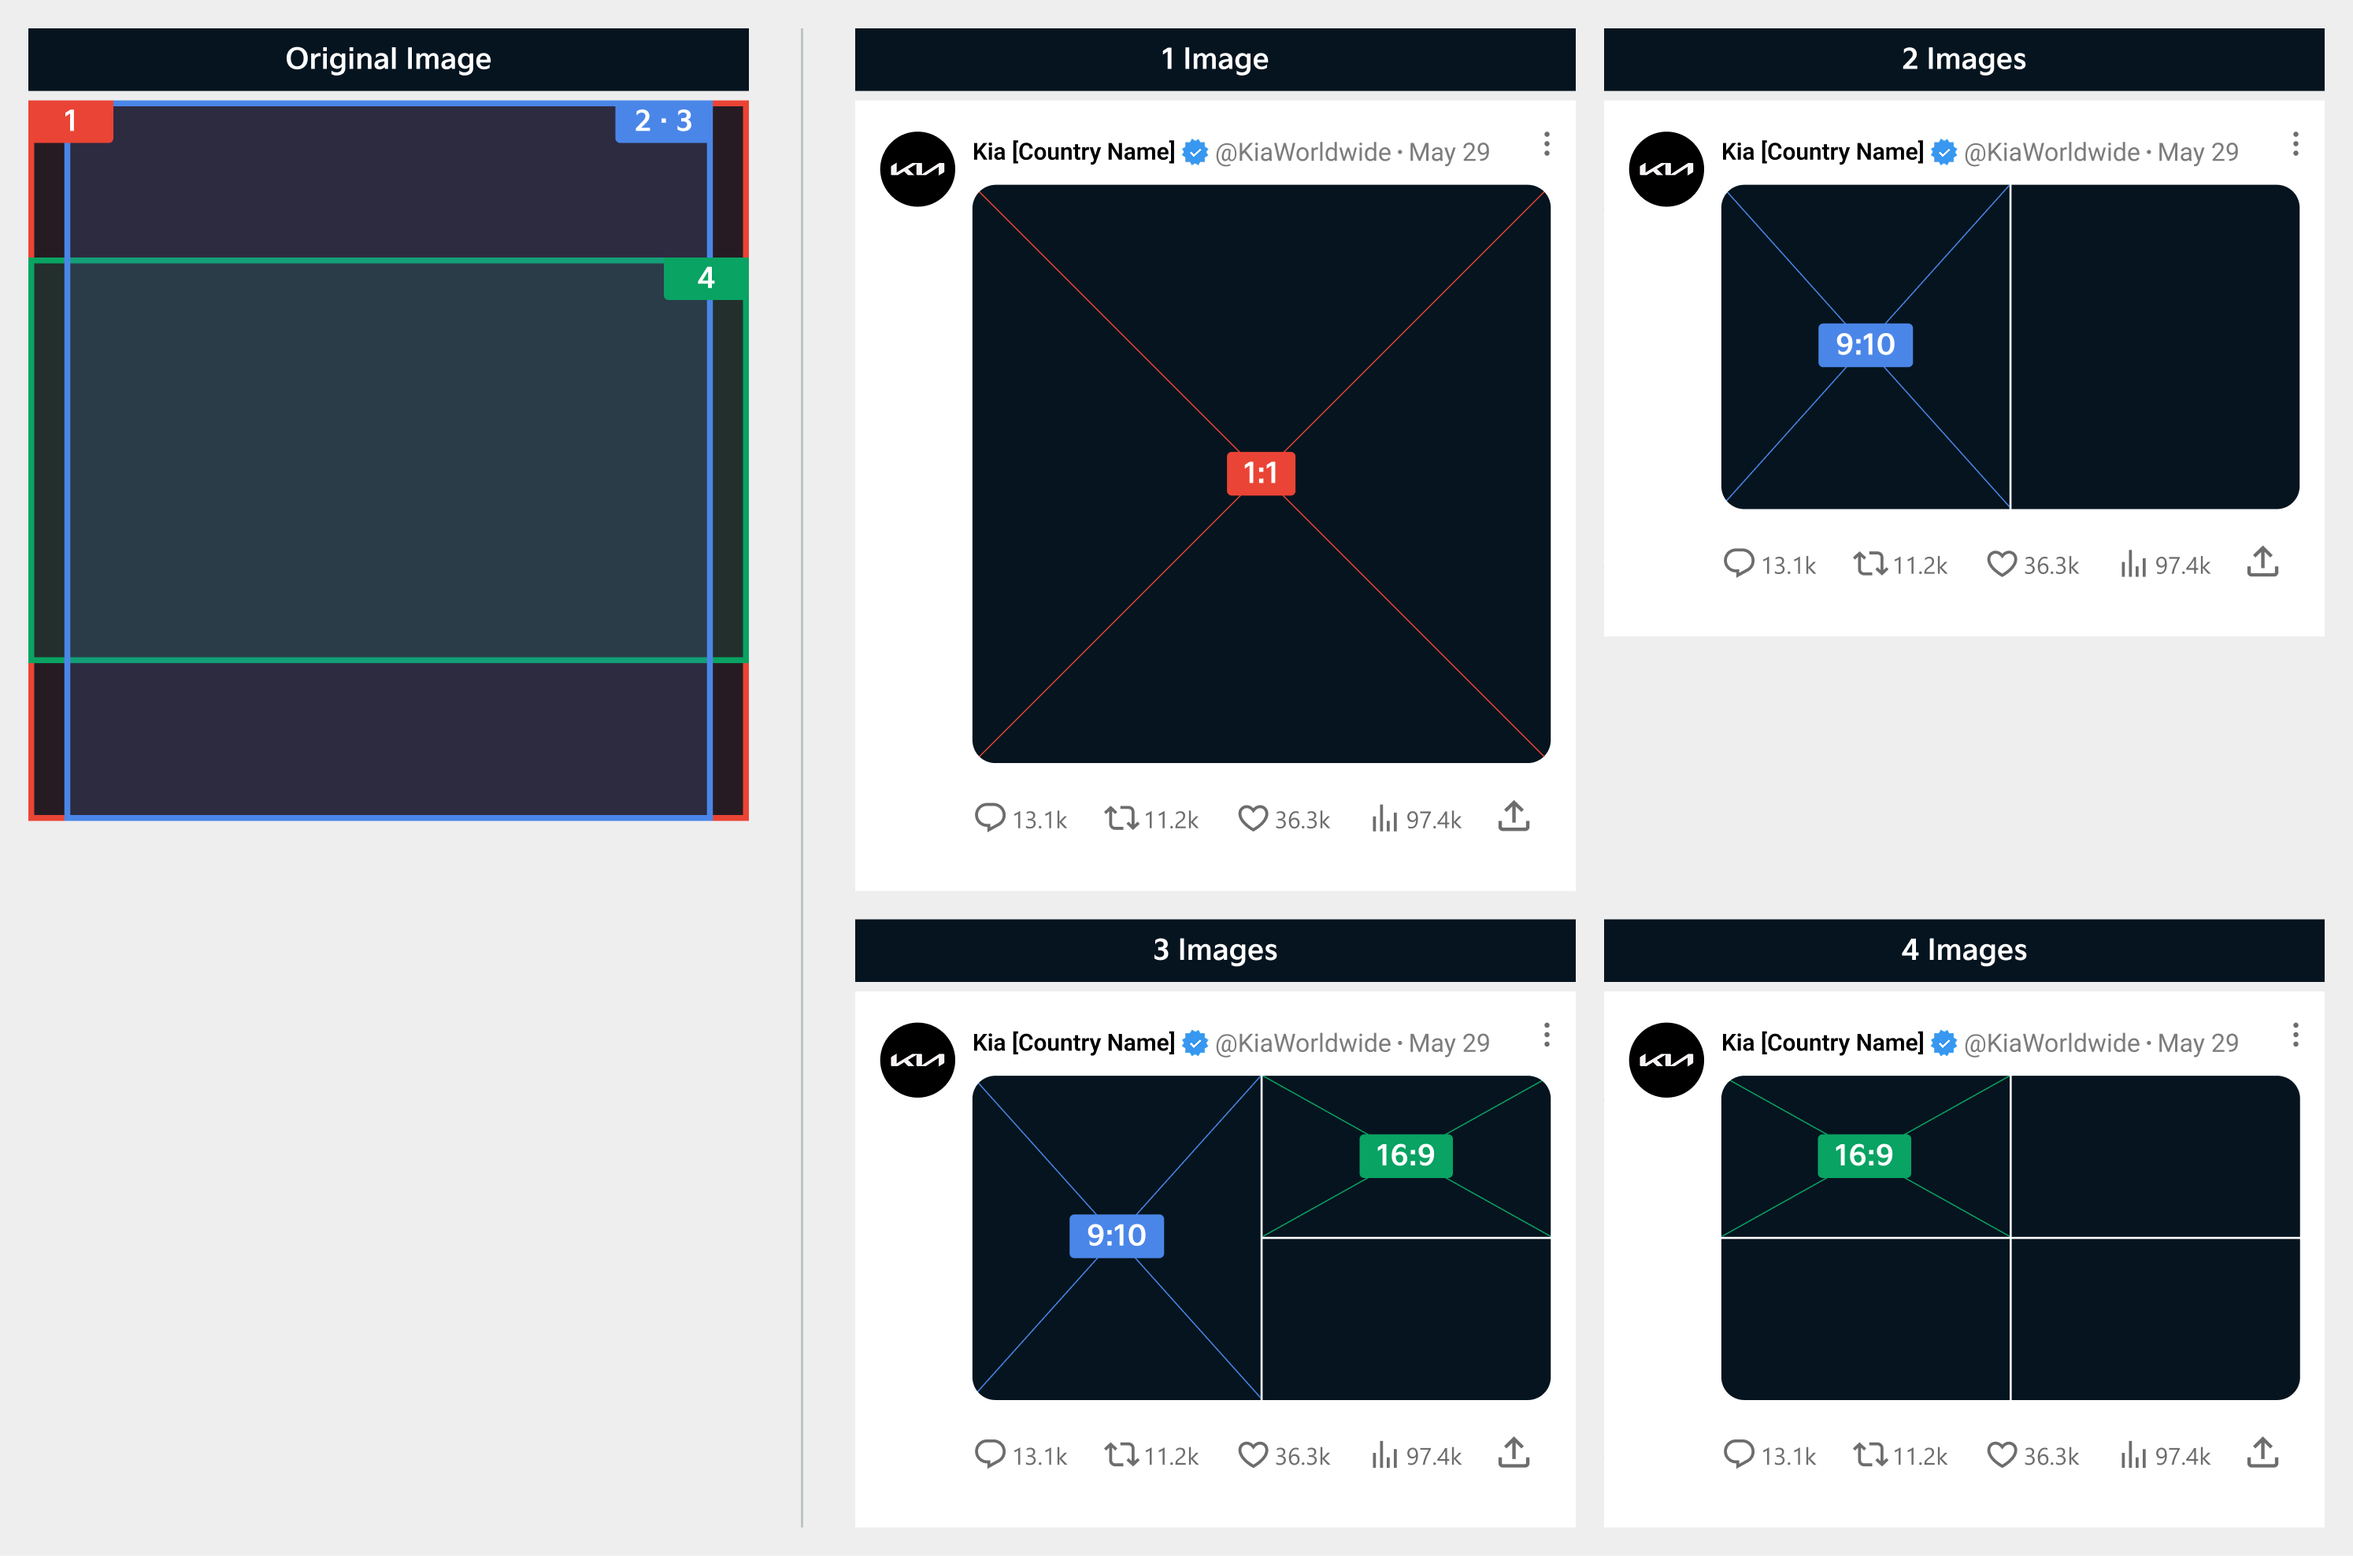
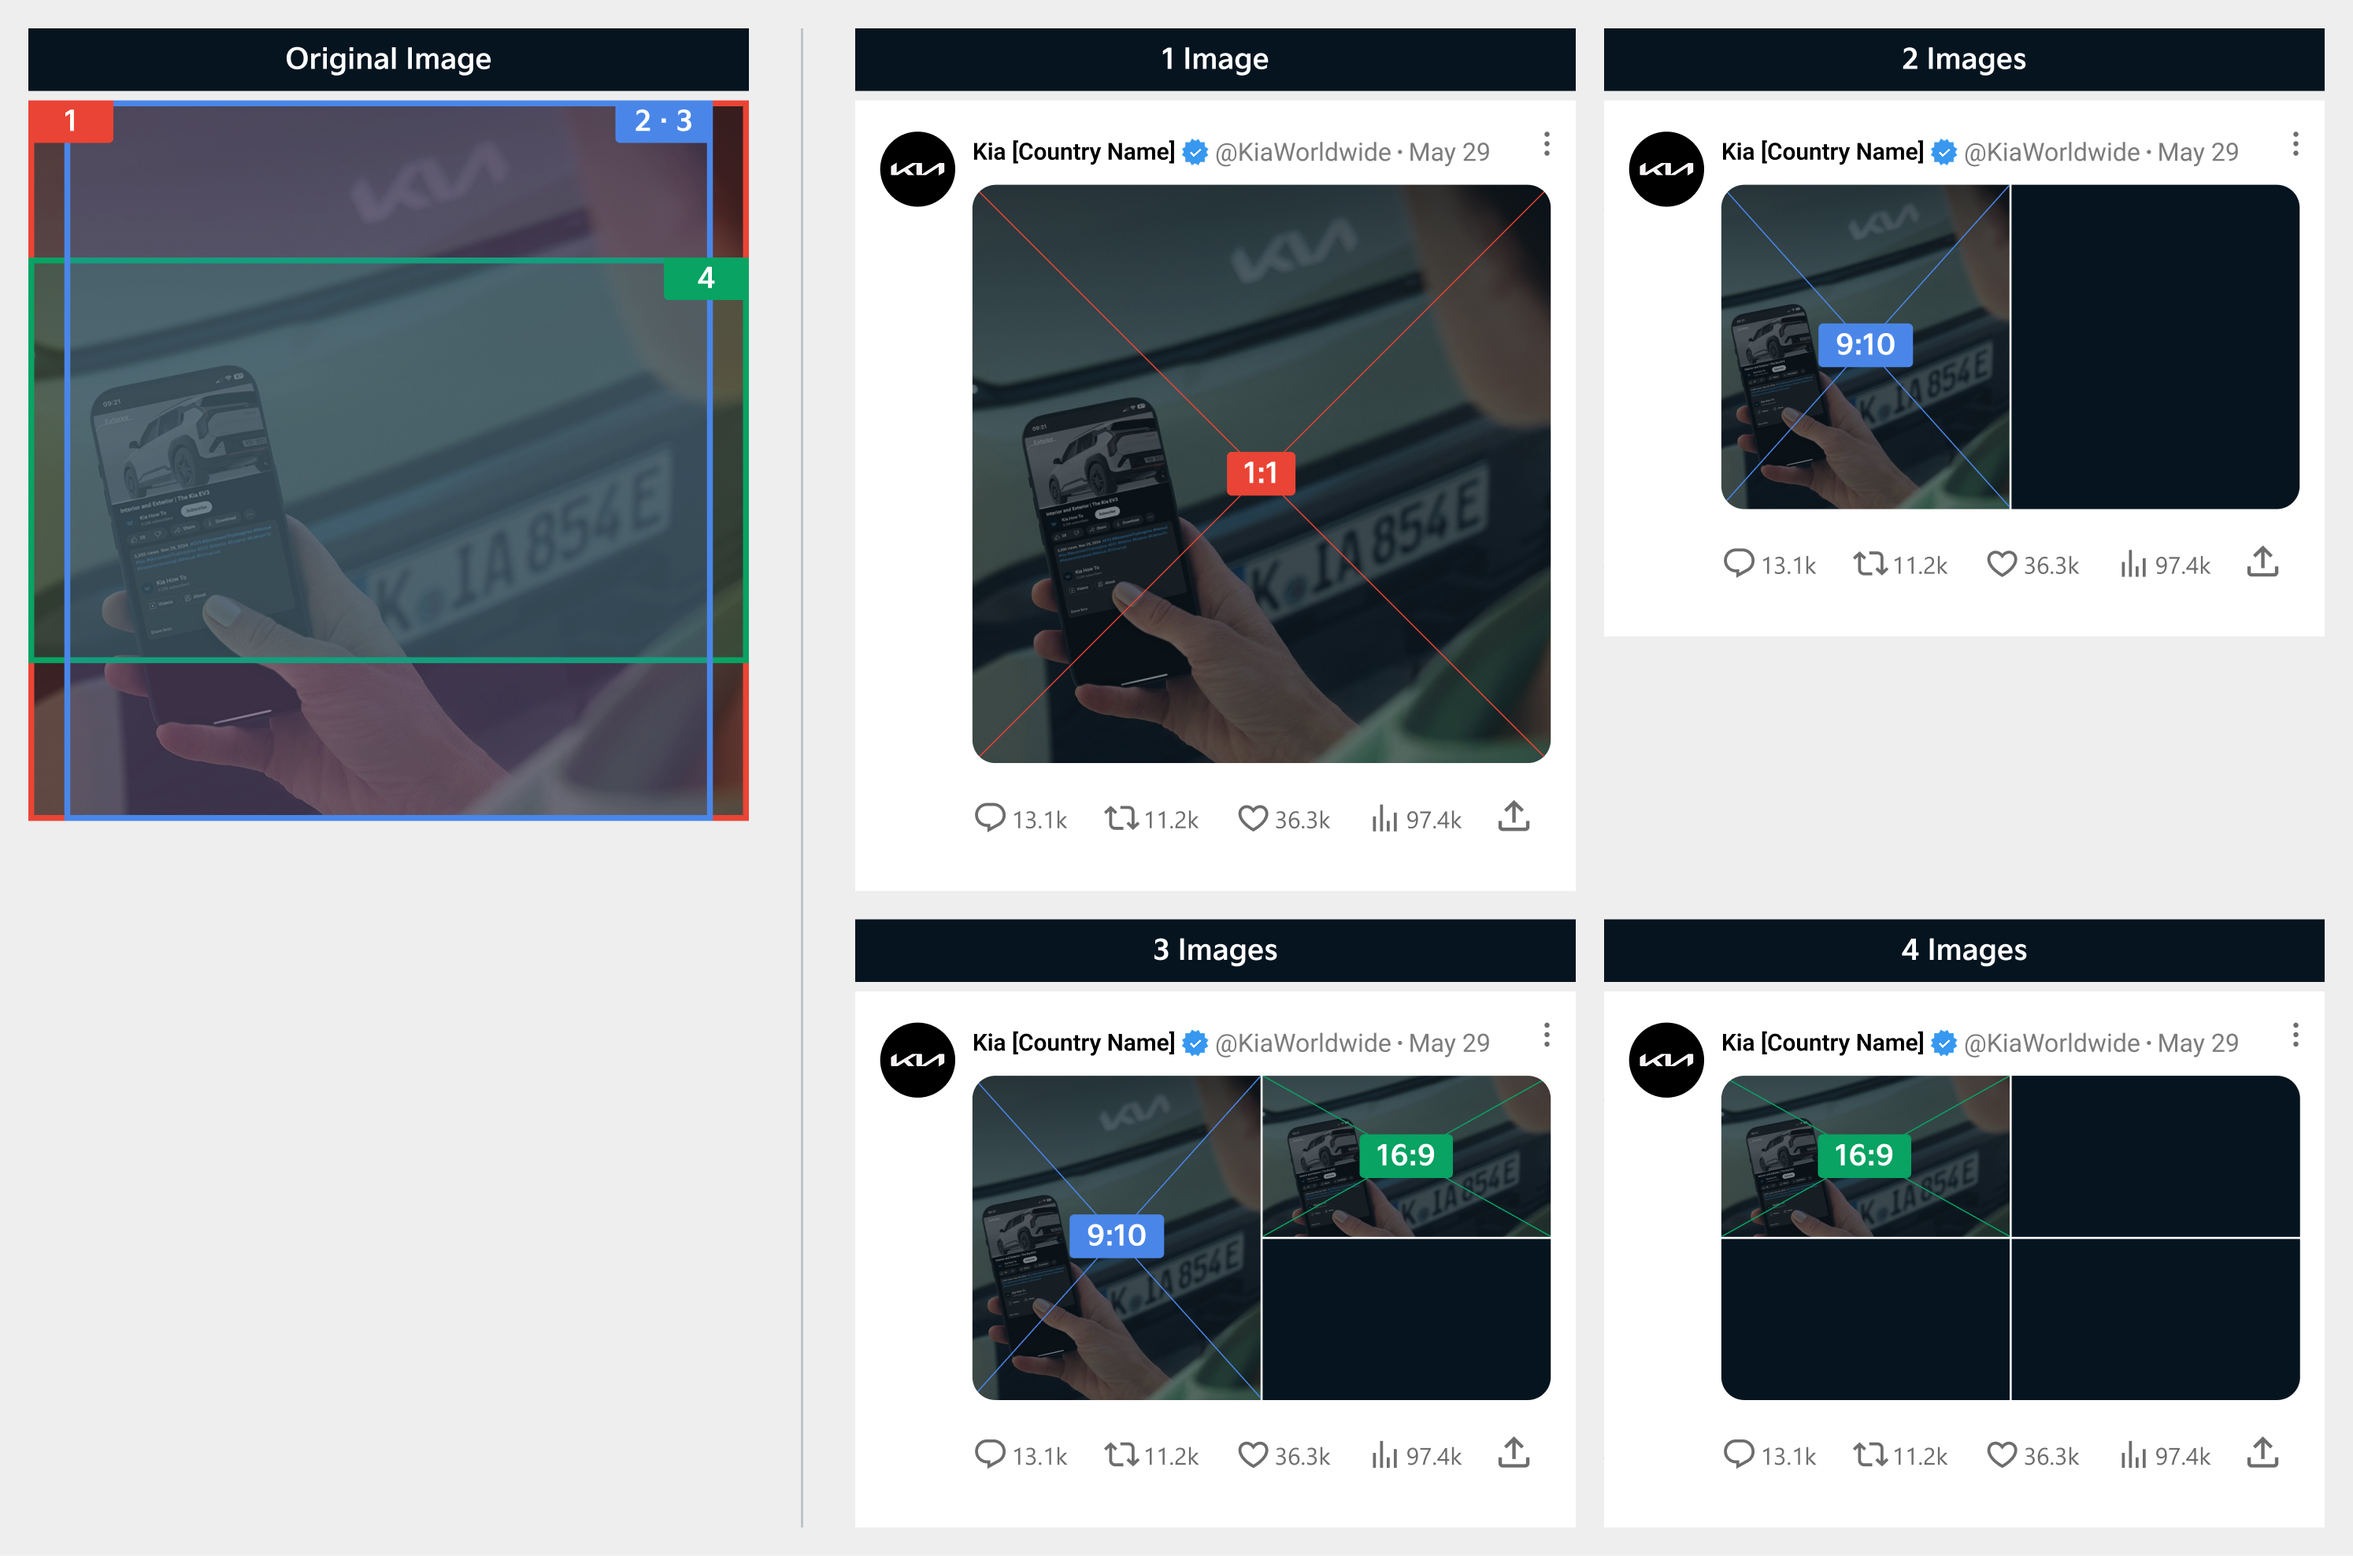
GITBOOK-60: No subject

diff --git a/guide/production-guidelines/x/image.md b/guide/production-guidelines/x/image.md
@@ -38,13 +38,15 @@ An original image (1:1) is displayed in a 9:10 aspect ratio.
 
 <figure><img src="../../../.gitbook/assets/X-image-2&#x26;3.jpg" alt=""><figcaption></figcaption></figure>
 
-#### Four Images
-
 <figure><img src="../../../.gitbook/assets/ex-X-image-2&#x26;3.jpg" alt=""><figcaption></figcaption></figure>
+
+#### Four Images
 
 An original image (1:1) is displayed in a 16:9 aspect ratio.
 
 <figure><img src="../../../.gitbook/assets/X-image-4.jpg" alt=""><figcaption></figcaption></figure>
+
+<figure><img src="../../../.gitbook/assets/ex-X-image-4.jpg" alt=""><figcaption></figcaption></figure>
 
 {% hint style="info" %}
 You can place text in all areas except for the margin and text is recommended to be left- or center-aligned.
